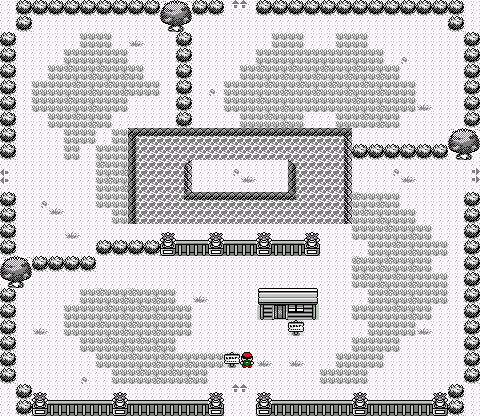
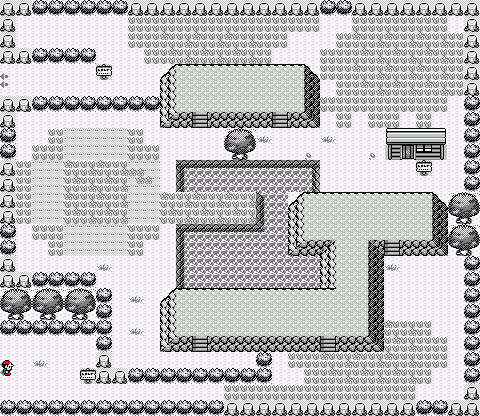
ajout sprite pokemon

diff --git a/carte/affichage.py b/carte/affichage.py
@@ -15,8 +15,47 @@ from PyQt5 import QtCore, QtWidgets, QtMultimedia
 
 import carte as c
 import deplacement as d
+import random as rd
 
 
+
+
+import csv
+import numpy as np
+
+
+
+
+class Pokemon:
+    def __init__(self,name,tp,pv,at,df,at_spc,df_spc,sp,coord = None):
+        self.name = name
+        self.tp = tp            #type
+        self.pv = pv            #points de vie
+        self.at = at            #attaque
+        self.df = df            #défense
+        self.at_spc = at_spc    #attaque spéciale
+        self.df_spc = df_spc    #défense spéciale
+        self.sp = sp            #vitesse(speed)
+        self.coord = coord
+
+
+
+Pokelist = []
+
+with open('../data/pokemon_first_gen.csv') as csvfile:
+    fichier = csv.reader(csvfile,delimiter = ',')
+    for row in fichier:
+        Pokelist.append([row[1],row[2],row[5],row[6],row[7],row[8],row[9],row[10]])
+
+
+Pokelist_legende = Pokelist.pop(0)
+
+
+        
+Pokedex = []
+
+for elt in Pokelist:
+    Pokedex.append(Pokemon(elt[0],elt[1],elt[2],elt[3],elt[4],elt[5],elt[6],elt[7]))
 
 pix = 232
 piy = 400
@@ -60,11 +99,14 @@ a = 1
 
 j1 = d.joueur(case_depart, test_map)
 
-def nouv_j(j):
-    re = j.deplacement("Up")
-    return re
- 
-jsp = nouv_j(j1)    
+
+def affiche_id(pid):
+    idd = str(pid)
+    nb_0 = 3 - len(idd)
+    nom = ""
+    for i in range(nb_0):
+        nom = nom + "0"
+    return nom + idd
 
 class MainWindow(QMainWindow):
 
@@ -76,7 +118,7 @@ class MainWindow(QMainWindow):
 
     def initUI(self):
         super(MainWindow, self).__init__()
-        self.title = "Image Viewer"
+        self.title = "Pykémon"
         self.setWindowTitle(self.title)
         label = QLabel(self)
         pixmap = QPixmap("game.png")
@@ -112,6 +154,12 @@ class MainWindow(QMainWindow):
             all_img = [img0,img1,img2,img3]
             new_image = all_img[j1.case.area_id]
             new_image.paste(img4, (j1.case.y * 8, j1.case.x * 8), mask = img4)
+            if j1.case.type_case(j1.map) == "Herbe":
+                id_Poke = rd.randint(1, 1000)
+                if id_Poke <= 151:
+                    print(Pokedex[id_Poke].name) ### A modifier pour lancer le combat
+                    img5 = Image.open("..\code\gui\spr_rb-supgb_" + affiche_id(id_Poke) + ".png")
+                    new_image.paste(img5, (j1.case.y * 8, j1.case.x * 8))
             new_image.save("game.png")
             label = QLabel(self)
             pixmap = QPixmap("game.png")
@@ -119,7 +167,7 @@ class MainWindow(QMainWindow):
             label.setScaledContents(True)
             self.setCentralWidget(label)
         if e.key() == Qt.Key_Down:
-            j1.deplacement("down").case.x
+            j1.deplacement("down")
             img0 = Image.open("..\code\gui\Safari_Zone_entrance_RBY.png")
             img1 = Image.open("..\code\gui\Safari_Zone_area_1_RBY.png")
             img2 = Image.open("..\code\gui\Safari_Zone_area_2_RBY.png")
@@ -128,6 +176,12 @@ class MainWindow(QMainWindow):
             all_img = [img0,img1,img2,img3]
             new_image = all_img[j1.case.area_id]
             new_image.paste(img4, (j1.case.y * 8, j1.case.x * 8), mask = img4)
+            if j1.case.type_case(j1.map) == "Herbe":
+                id_Poke = rd.randint(1, 1000)
+                if id_Poke <= 151:
+                    print(Pokedex[id_Poke].name) ### A modifier pour lancer le combat
+                    img5 = Image.open("..\code\gui\spr_rb-supgb_" + affiche_id(id_Poke) + ".png")
+                    new_image.paste(img5, (j1.case.y * 8, j1.case.x * 8))
             new_image.save("game.png")
             label = QLabel(self)
             pixmap = QPixmap("game.png")
@@ -135,7 +189,7 @@ class MainWindow(QMainWindow):
             label.setScaledContents(True)
             self.setCentralWidget(label)
         if e.key() == Qt.Key_Left:
-            j1.deplacement("left").case.x
+            j1.deplacement("left")
             img0 = Image.open("..\code\gui\Safari_Zone_entrance_RBY.png")
             img1 = Image.open("..\code\gui\Safari_Zone_area_1_RBY.png")
             img2 = Image.open("..\code\gui\Safari_Zone_area_2_RBY.png")
@@ -144,6 +198,12 @@ class MainWindow(QMainWindow):
             all_img = [img0,img1,img2,img3]
             new_image = all_img[j1.case.area_id]
             new_image.paste(img4, (j1.case.y * 8, j1.case.x * 8), mask = img4)
+            if j1.case.type_case(j1.map) == "Herbe":
+                id_Poke = rd.randint(1, 1000)
+                if id_Poke <= 151:
+                    print(Pokedex[id_Poke].name) ### A modifier pour lancer le combat
+                    img5 = Image.open("..\code\gui\spr_rb-supgb_" + affiche_id(id_Poke) + ".png")
+                    new_image.paste(img5, (j1.case.y * 8, j1.case.x * 8))
             new_image.save("game.png")
             label = QLabel(self)
             pixmap = QPixmap("game.png")
@@ -151,7 +211,7 @@ class MainWindow(QMainWindow):
             label.setScaledContents(True)
             self.setCentralWidget(label)
         if e.key() == Qt.Key_Right:
-            j1.deplacement("right").case.x
+            j1.deplacement("right")
             img0 = Image.open("..\code\gui\Safari_Zone_entrance_RBY.png")
             img1 = Image.open("..\code\gui\Safari_Zone_area_1_RBY.png")
             img2 = Image.open("..\code\gui\Safari_Zone_area_2_RBY.png")
@@ -160,6 +220,12 @@ class MainWindow(QMainWindow):
             all_img = [img0,img1,img2,img3]
             new_image = all_img[j1.case.area_id]
             new_image.paste(img4, (j1.case.y * 8, j1.case.x * 8), mask = img4)
+            if j1.case.type_case(j1.map) == "Herbe":
+                id_Poke = rd.randint(1, 1000)
+                if id_Poke <= 151:
+                    print(Pokedex[id_Poke].name) ### A modifier pour lancer le combat
+                    img5 = Image.open("..\code\gui\spr_rb-supgb_" + affiche_id(id_Poke) + ".png")
+                    new_image.paste(img5, (j1.case.y * 8, j1.case.x * 8))
             new_image.save("game.png")
             label = QLabel(self)
             pixmap = QPixmap("game.png")

diff --git a/carte/pokemon.py b/carte/pokemon.py
@@ -45,8 +45,8 @@ for elt in Pokelist:
     
     
     
-if __name__ == "__main__":
     
-    print(Pokelist)
-    print(Pokelist_legende)
-    print(Pokedex[0].name)
+    
+print(Pokelist)
+print(Pokelist_legende)
+print(Pokedex[0].name)
